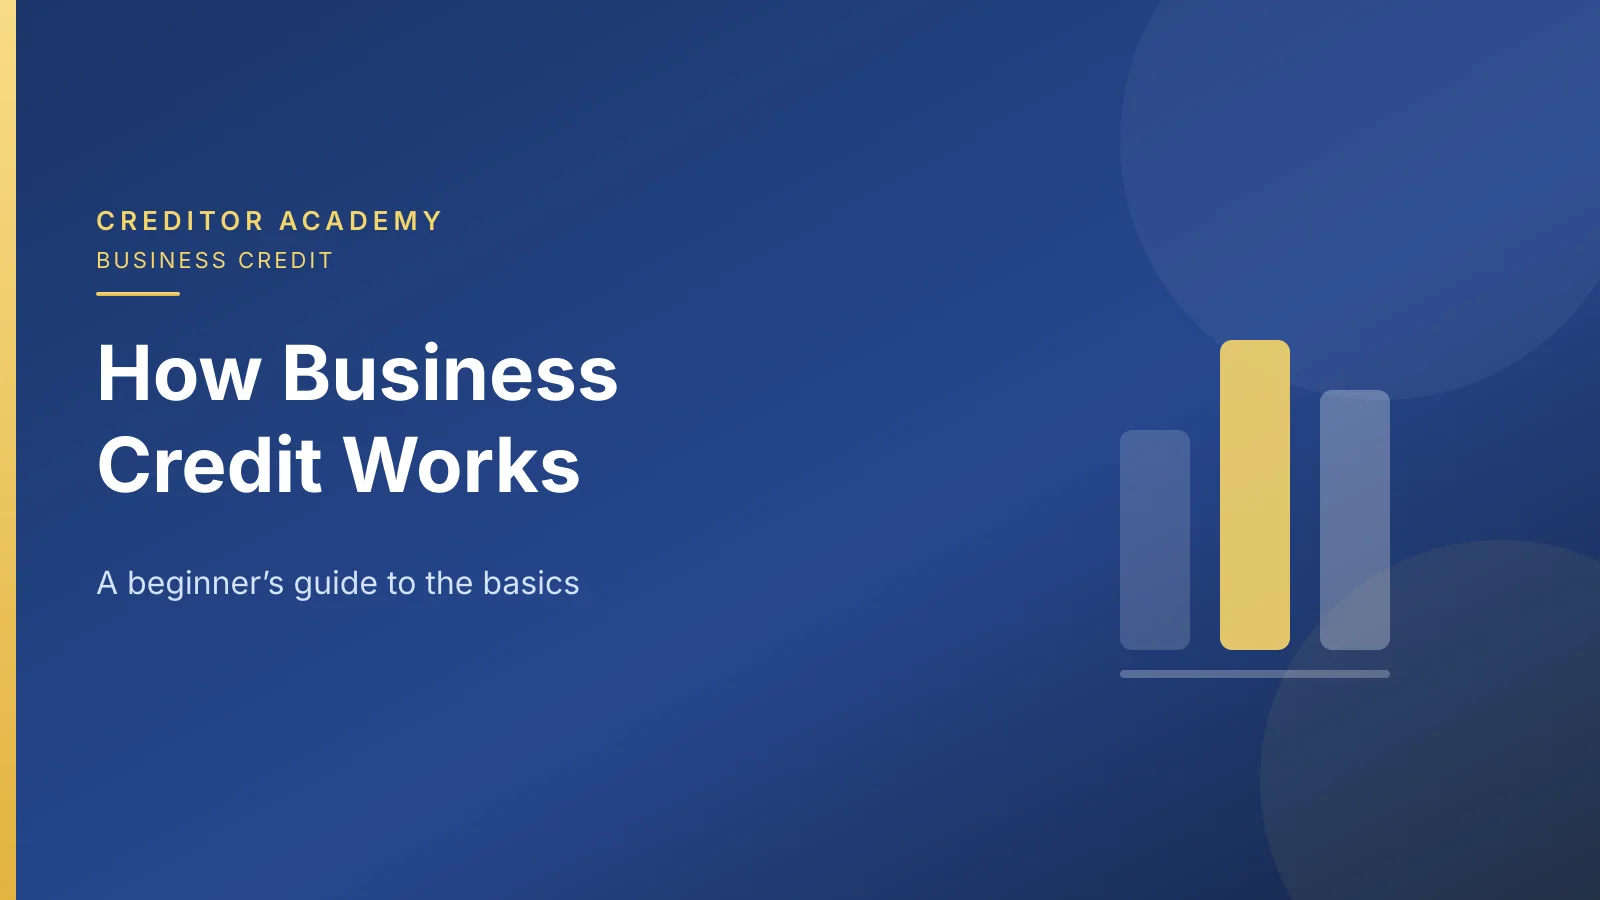
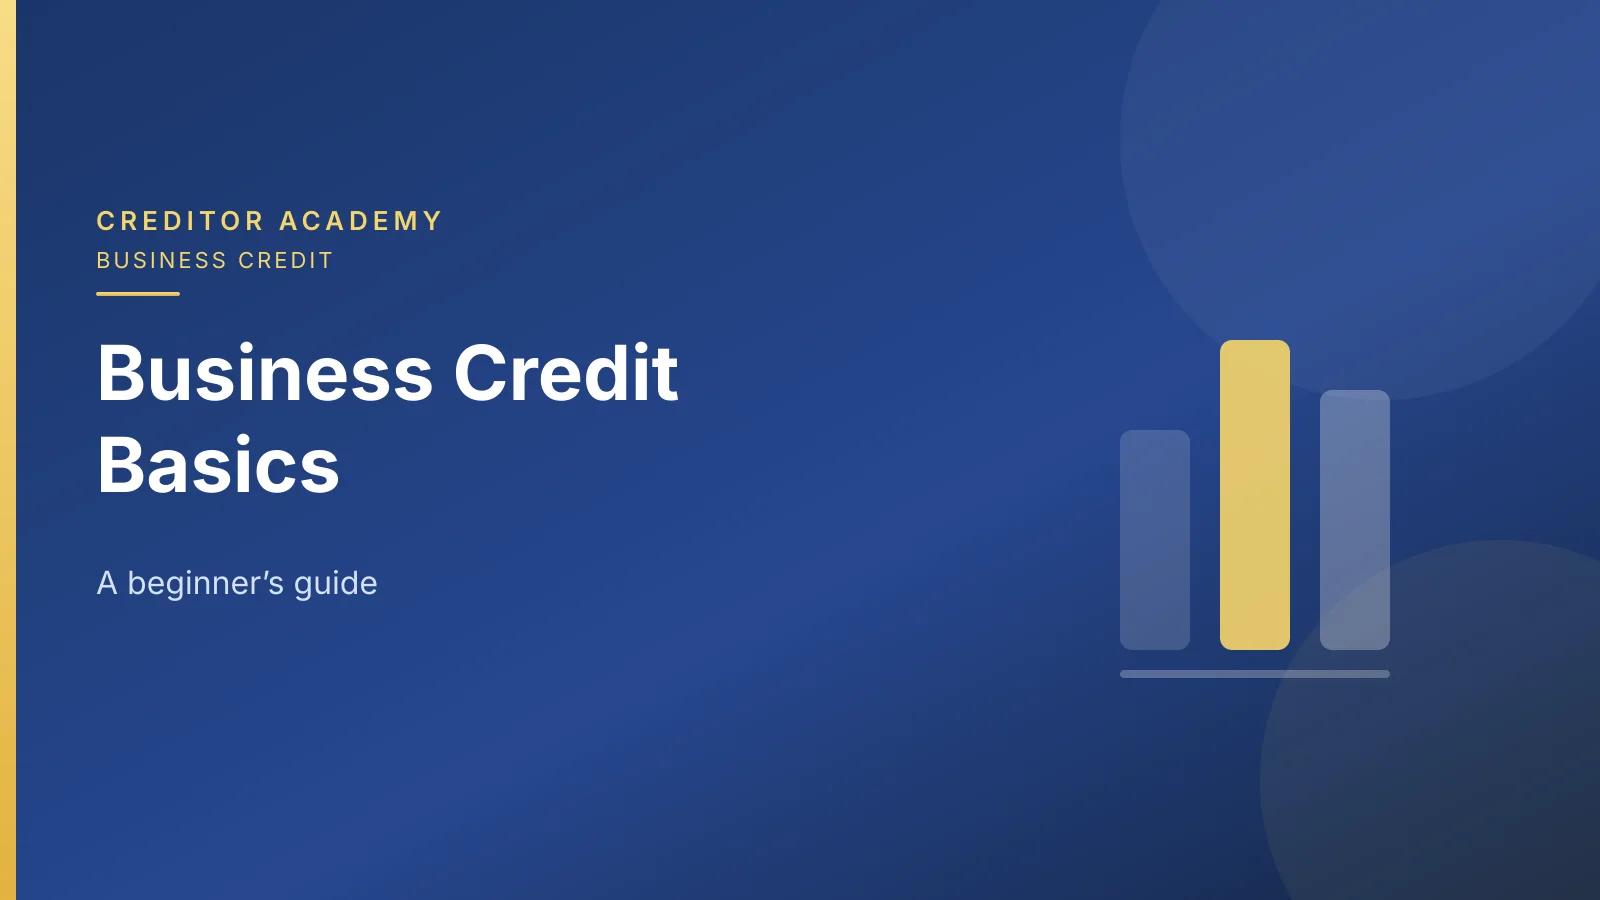
Retitle the beginner guide so it does not compete in search
Use "Business Credit Basics: A Beginner's Guide" for the new post title, meta title, and cover. The slug stays business-credit-basics-beginners-guide.

Changed region(s): [[0.0625, 0.3733, 0.4375, 0.56], [0.25, 0.6222, 0.3438, 0.6844]]

diff --git a/package/src/lib/journalPosts.ts b/package/src/lib/journalPosts.ts
@@ -256,12 +256,12 @@ export const JOURNAL_POSTS: JournalPost[] = [
 
     slug: "business-credit-basics-beginners-guide",
 
-    title: "How Business Credit Works: A Beginner's Guide",
+    title: "Business Credit Basics: A Beginner's Guide",
 
     description:
       "A plain-English introduction to business credit: what it is, how it differs from personal credit, what lenders and suppliers look at, and how to start learning.",
 
-    metaTitle: "How Business Credit Works: A Beginner's Guide | Creditor Academy",
+    metaTitle: "Business Credit Basics: A Beginner's Guide | Creditor Academy",
 
     metaDescription:
       "A plain-English introduction to business credit: what it is, how it differs from personal credit, what lenders and suppliers look at, and how to start learning.",
